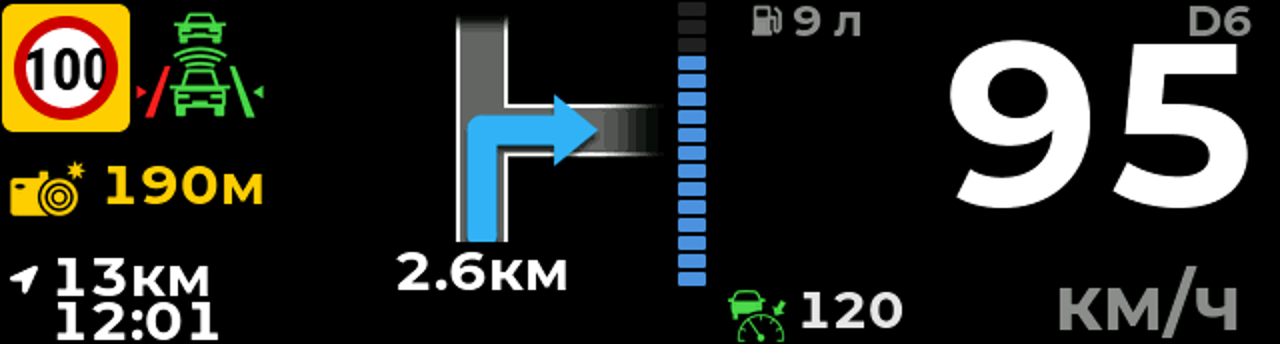
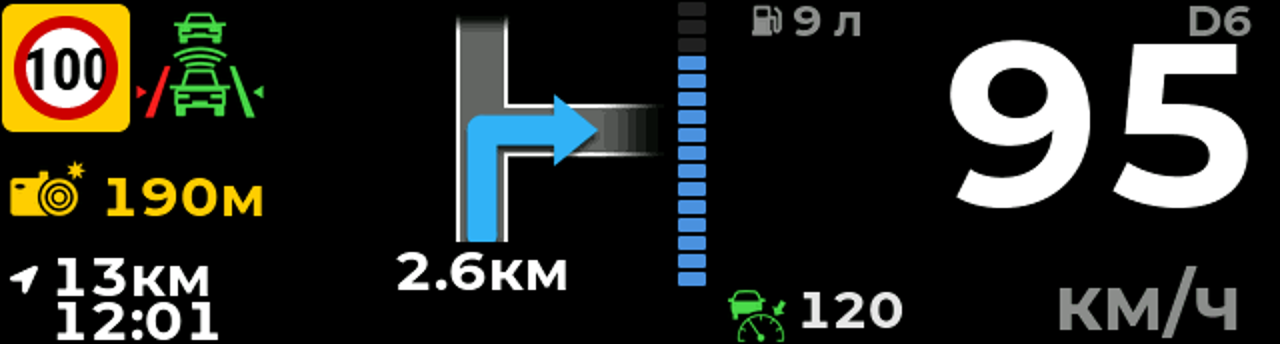
Камера: низ расстояния на уровне низа значка; обновлены скриншоты
Claude-Session: https://claude.ai/code/session_01X7TpBLfh4BC2LjfP91DNom

Changed region(s): [[0.0625, 0.4651, 0.2188, 0.6395]]

diff --git a/waveshare_hud_mockup/hud_mockup.c b/waveshare_hud_mockup/hud_mockup.c
@@ -240,7 +240,7 @@ static void cams_build(lv_obj_t *scr)
     lv_obj_set_style_text_color(cm_dist, lv_color_hex(C_YELLOW), 0);
     lv_label_set_long_mode(cm_dist, LV_LABEL_LONG_CLIP);
     lv_obj_set_style_text_align(cm_dist, LV_TEXT_ALIGN_LEFT, 0);
-    lv_obj_set_width(cm_dist, 130); lv_obj_set_pos(cm_dist, 50, 80);   /* справа от значка камеры */
+    lv_obj_set_width(cm_dist, 130); lv_obj_set_pos(cm_dist, 50, 86);   /* справа от значка камеры */
 
     lv_obj_add_flag(cm_sq, LV_OBJ_FLAG_HIDDEN); lv_obj_add_flag(cm_dist, LV_OBJ_FLAG_HIDDEN);
     lv_obj_add_flag(cm_eye, LV_OBJ_FLAG_HIDDEN);
